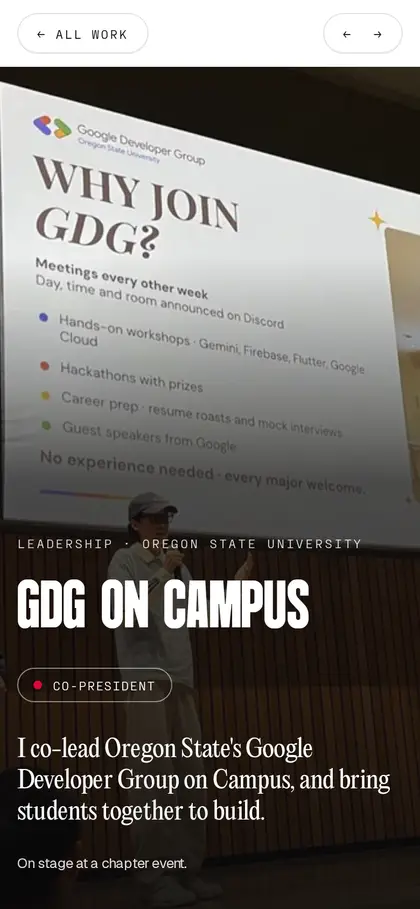
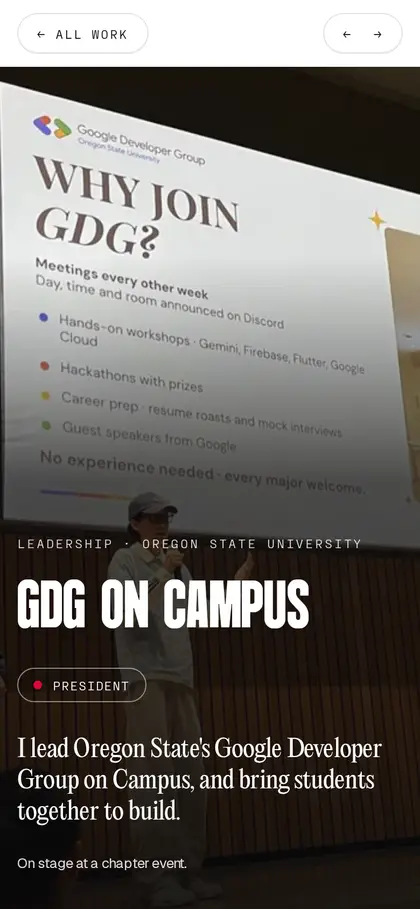
fix(gdg): President, the only one, not Co-President
The owner, 2026-10-03: "президент, и я один". The first v5 pass took
"Co-President" from gdgc-osu.com/officers; that page is outdated. The
GDG page, the timeline, projects.ts, the wheel's GDG shot, CLAUDE.md and
the log now say President; the source comments note the club page.

Claude-Session: https://claude.ai/code/session_015UrpmJBbkvhzHecmf4o5jf

Changed region(s): [[0.031, 0.8009, 0.9286, 0.9241], [0.1238, 0.7393, 0.3714, 0.7701]]

diff --git a/src/data/projects.ts b/src/data/projects.ts
@@ -115,11 +115,11 @@ export const projects: readonly Project[] = [
     href: "/work/gdg/",
     title: "GDG on Campus",
     kind: "Leadership",
-    role: "Co-President",
+    role: "President",
     when: "Spring 2026 — now",
     where: "Google Developer Group on Campus, Oregon State",
     result: "200+ students registered",
-    line: "Co-President of Oregon State's Google Developer Group chapter, where 200+ registered students build with Google technology.",
+    line: "President of Oregon State's Google Developer Group chapter, where 200+ registered students build with Google technology.",
     cover: {
       ...picture("gdg", "cover", 640),
       alt: "Presenting Google Developer Group on Campus Oregon State from the stage",

diff --git a/src/data/timeline.ts b/src/data/timeline.ts
@@ -71,10 +71,11 @@ export const timeline: readonly TimelineEntry[] = [
     thumb: "/projects/zyp/media/cover-thumb.webp",
   },
   {
-    // Co-President since the spring 2026 election (week 4, April): the owner,
-    // 2026-10-03, and gdgc-osu.com/officers ("Jak Tynshimov — Co-President").
+    // President, the only one, since the spring 2026 election (week 4,
+    // April): the owner, 2026-10-03. gdgc-osu.com/officers still reads
+    // "Co-President"; the owner's word stands.
     // 200+ registered is the owner's figure.
-    title: "Co-President, Google Developer Group on Campus",
+    title: "President, Google Developer Group on Campus",
     org: "Oregon State",
     kind: "club",
     start: "2026-04",

diff --git a/CLAUDE.md b/CLAUDE.md
@@ -419,8 +419,9 @@ The measurement harness lives in `perf/` (`harness.mjs`, `regression.mjs`,
   353f6da. `t-anime` runs a reduced-motion context per engine since. The
   suite is 1130+ checks; `tests/lib.mjs` ignores the engines' own aborts
   (`ERR_ABORTED`, `NS_BINDING_ABORTED`, "cancelled").
-- **GDG facts** (2026-10-03): he is one of two Co-Presidents
-  (gdgc-osu.com/officers), elected in spring 2026. 200+ registered is his
+- **GDG facts** (2026-10-03): he is the President, the only one (the owner:
+  "президент, и я один"), elected in spring 2026. gdgc-osu.com/officers still
+  lists two Co-Presidents; his word stands, and that page is the club's to fix. 200+ registered is his
   figure; 22 meetings in 2025-26 and 6 → 70 members in the first year come
   from the chapter's shared Drive (sources in `src/pages/work/gdg.astro`).
 - Branch history:

diff --git a/docs/portfolio-v5-design.md b/docs/portfolio-v5-design.md
@@ -118,7 +118,8 @@ the player need t-case, screenshots, and `shots.mjs` for any changed first scree
 ## Progress
 - W0 (2026-10-03 00:35): 11 idle sessions exported to `~/work/<project>/docs/sessions/`
   and killed with `csess kill` (resumable). Available memory 3.1 → 6.1 GB.
-- W1 1074f0d: Co-President since spring 2026; GDG figures 200+ / 22 meetings / 6 → 70;
+- W1 1074f0d: President since spring 2026 (first written "Co-President" from the
+  club site; the owner corrected it the same day: he is the only President); GDG figures 200+ / 22 meetings / 6 → 70;
   TouchPoint "2nd place overall of 71 teams, 250+ hackers". Discord post updated.
 - W5 7e6f922: impact at [0.8, 0.72] / [0.78, 0.72], wipe sized in px, debris clamped.
   Phone x4 rocket-down 13-17 frames over 50 ms against a base of 16 (noisy host).
